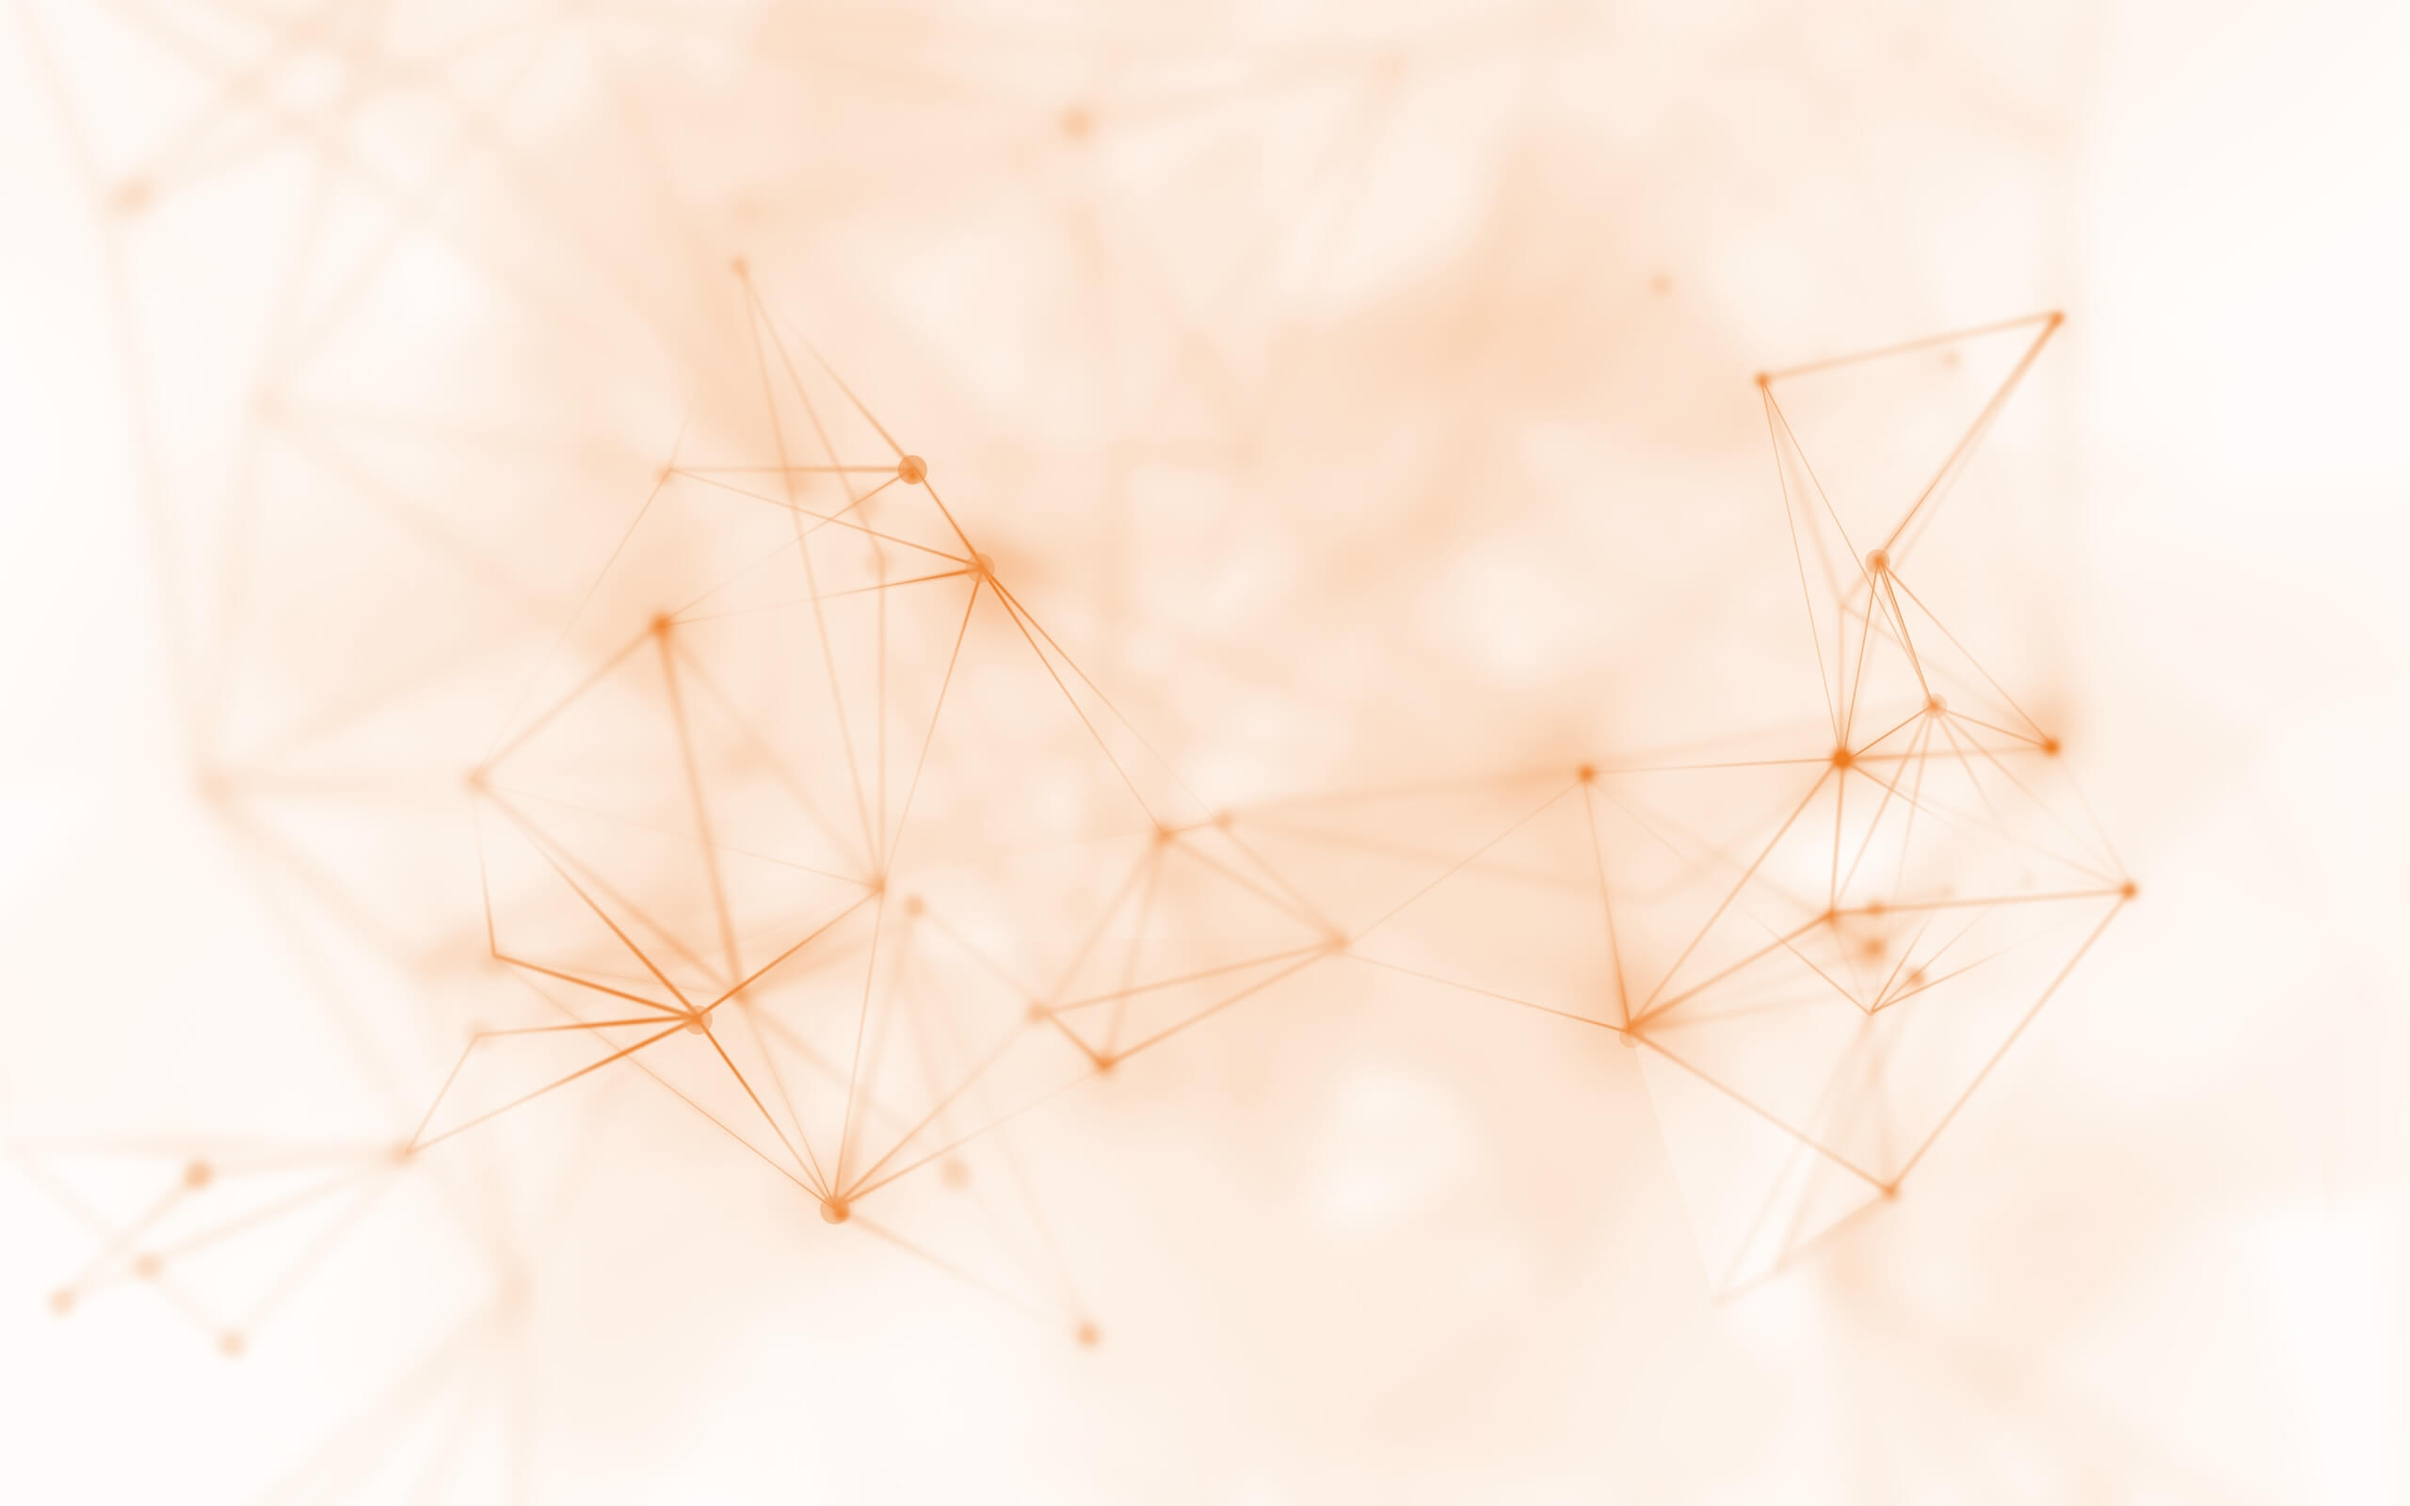
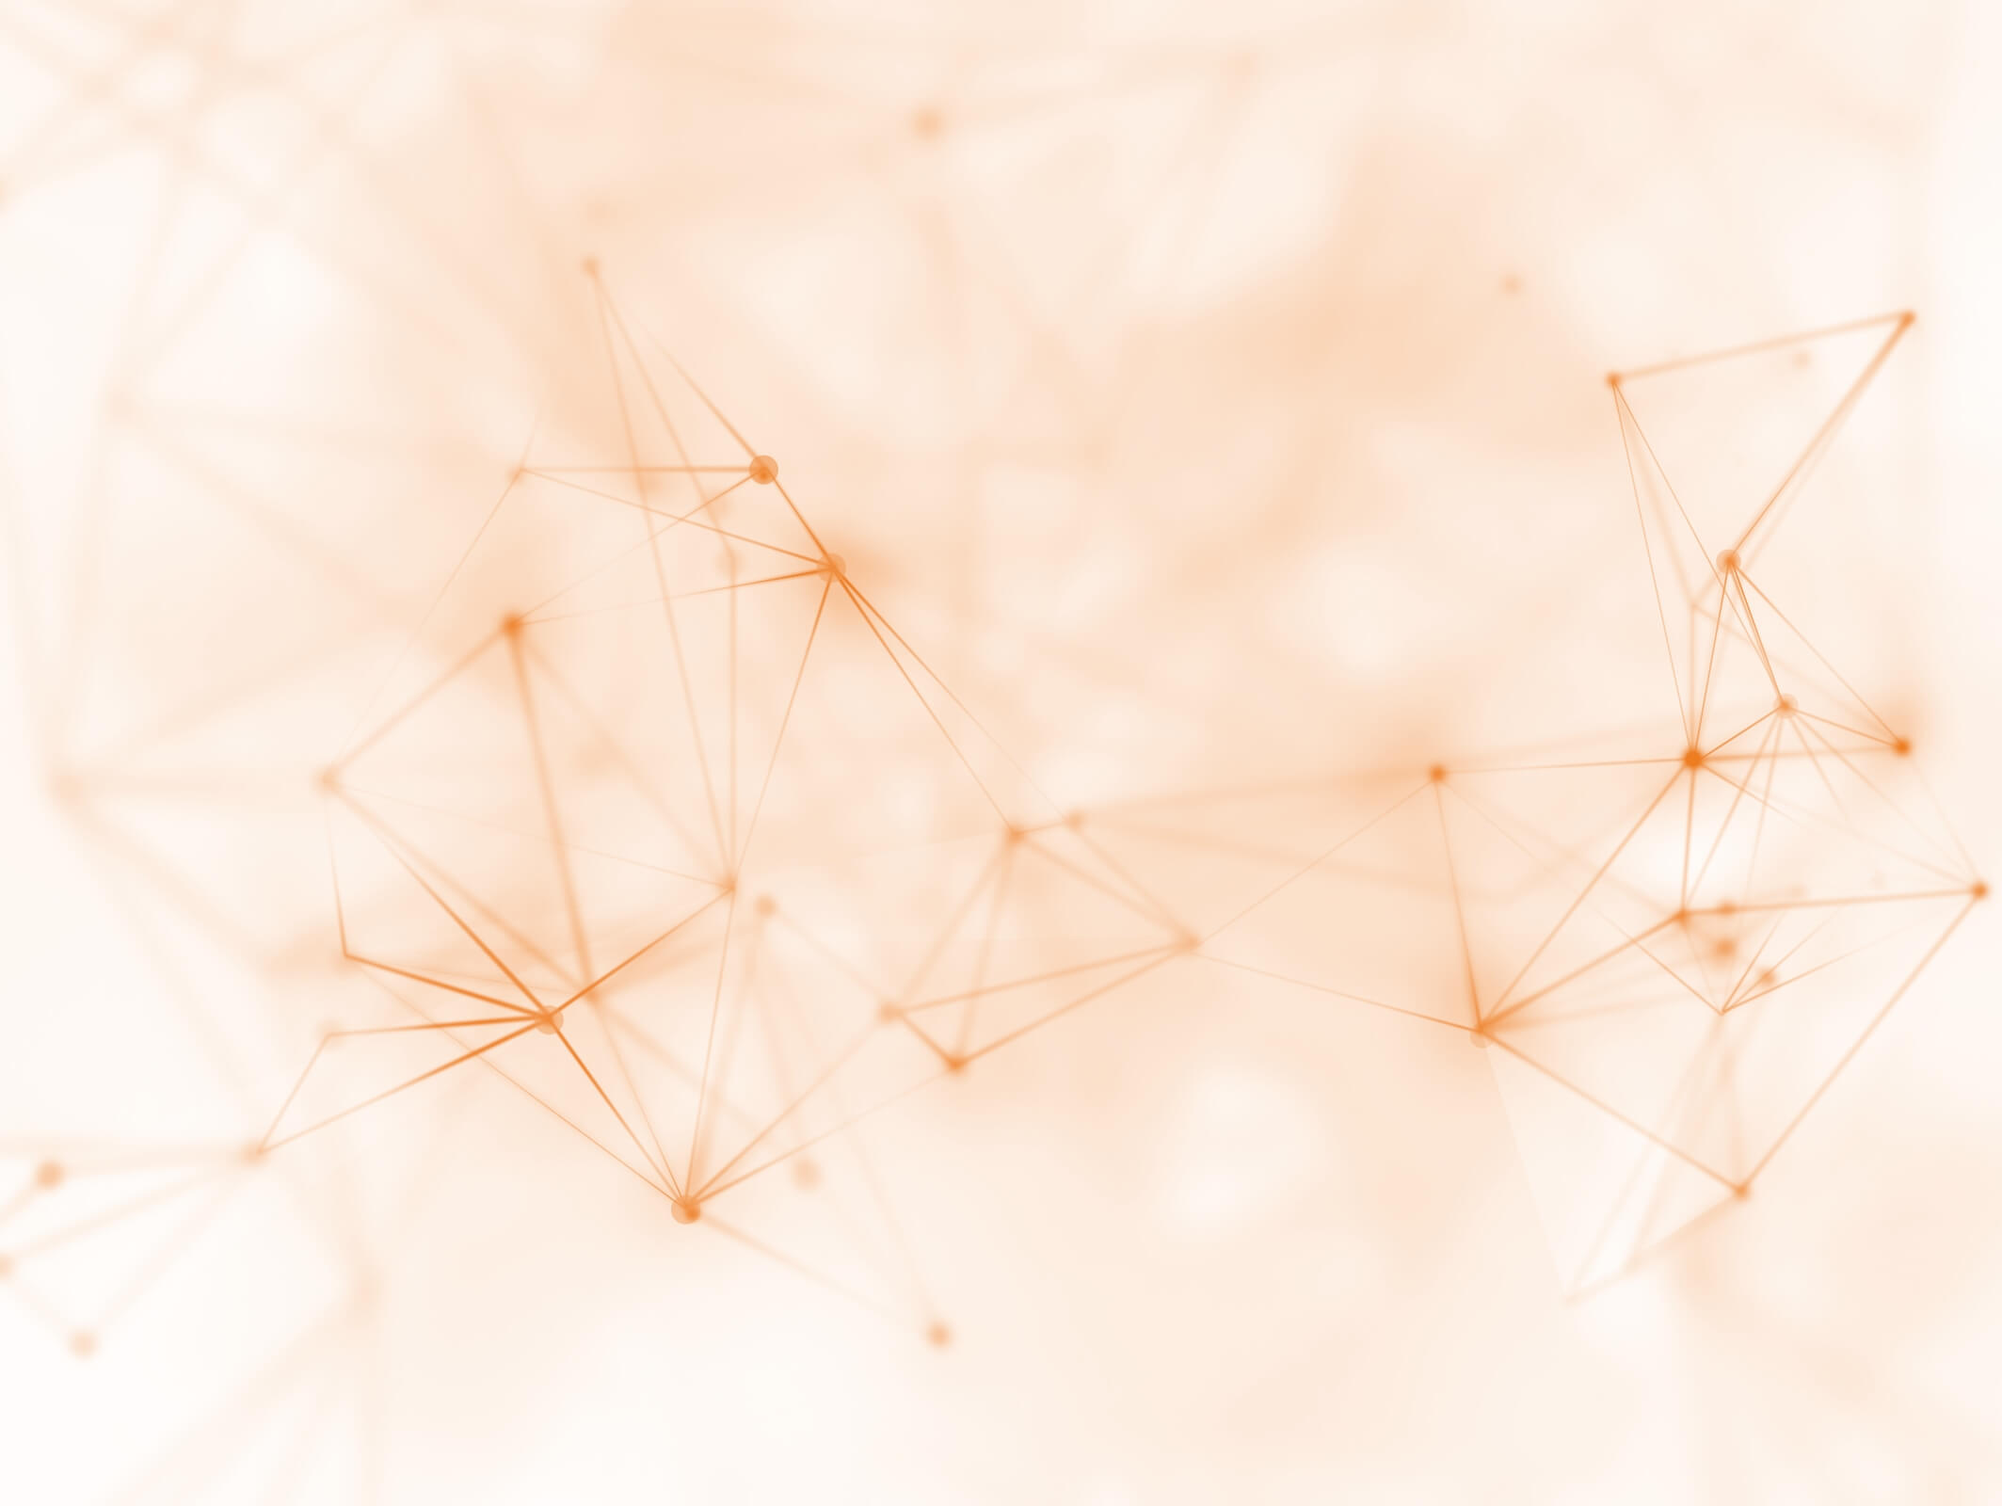
bg

diff --git a/public/css/lanyon.css b/public/css/lanyon.css
@@ -156,7 +156,7 @@ h1, h2, h3, h4, h5, h6 {
           transition: all .3s ease-in-out;
   background-image: url("../bg.jpg");
   background-size: cover;
-  background-position: center;
+  background-position: right;
 }
 @media (min-width: 30rem) {
   .sidebar {
